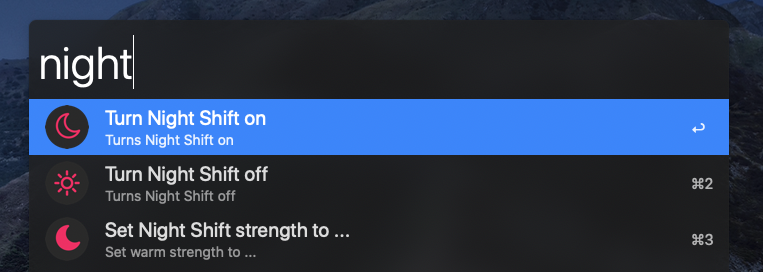
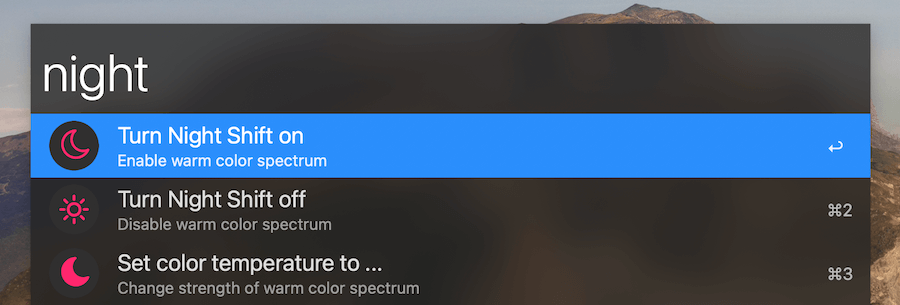
Update README with new images and nightlight info

diff --git a/README.md b/README.md
@@ -5,7 +5,7 @@
 [![GitHub issues](https://img.shields.io/github/issues/shmulvad/alfred-nightshift?style=flat-square)](https://github.com/shmulvad/alfred-nightshift/issues)
 [![GitHub license](https://img.shields.io/github/license/shmulvad/alfred-nightshift?style=flat-square)](https://github.com/shmulvad/alfred-nightshift/blob/master/LICENSE)
 
-A simple [Alfred][1] workflow for quickly turning on/off NightShift or setting it to a value between 0-100. No more fiddling with deep settings when you either want to save your eyes or need to work with accurate colors!
+A simple [Alfred][1] workflow for quickly turning on/off Night Shift or setting it to a value between 0-100. No more fiddling with deep settings when you either want to save your eyes or need to work with accurate colors!
 
 ⭐ If you find this repo useful, please consider starring it to let me know.
 
@@ -14,7 +14,7 @@ A simple [Alfred][1] workflow for quickly turning on/off NightShift or setting i
 2. All further updates are handled automatically.
 
 ## Usage
-In Alfred, type `night` followed by either `off`, `on` or a number between `0 - 100`.
+In Alfred, type `night` followed by either `on`, `off` or a number between `0 - 100`.
 
 <p align="center">
   <img width="1200" height="auto" src="images/night.png?raw=true">
@@ -25,10 +25,10 @@ In Alfred, type `night` followed by either `off`, `on` or a number between `0 - 
 ## Credits
 The workflow makes use of the following:
 
-* [nshift][3] by leberwurstsaft as the backend for setting the values.
+* [nightlight][3] by smudge as the backend for setting the values.
 * [OneUpdater][4] by vitorgalvao for handling automatic updates.
 
 [1]: https://www.alfredapp.com/
 [2]: https://github.com/shmulvad/alfred-nightshift/releases/latest/download/NightShift.alfredworkflow
-[3]: https://github.com/leberwurstsaft/nshift
+[3]: https://github.com/smudge/nightlight
 [4]: https://github.com/vitorgalvao/alfred-workflows/tree/master/OneUpdater
